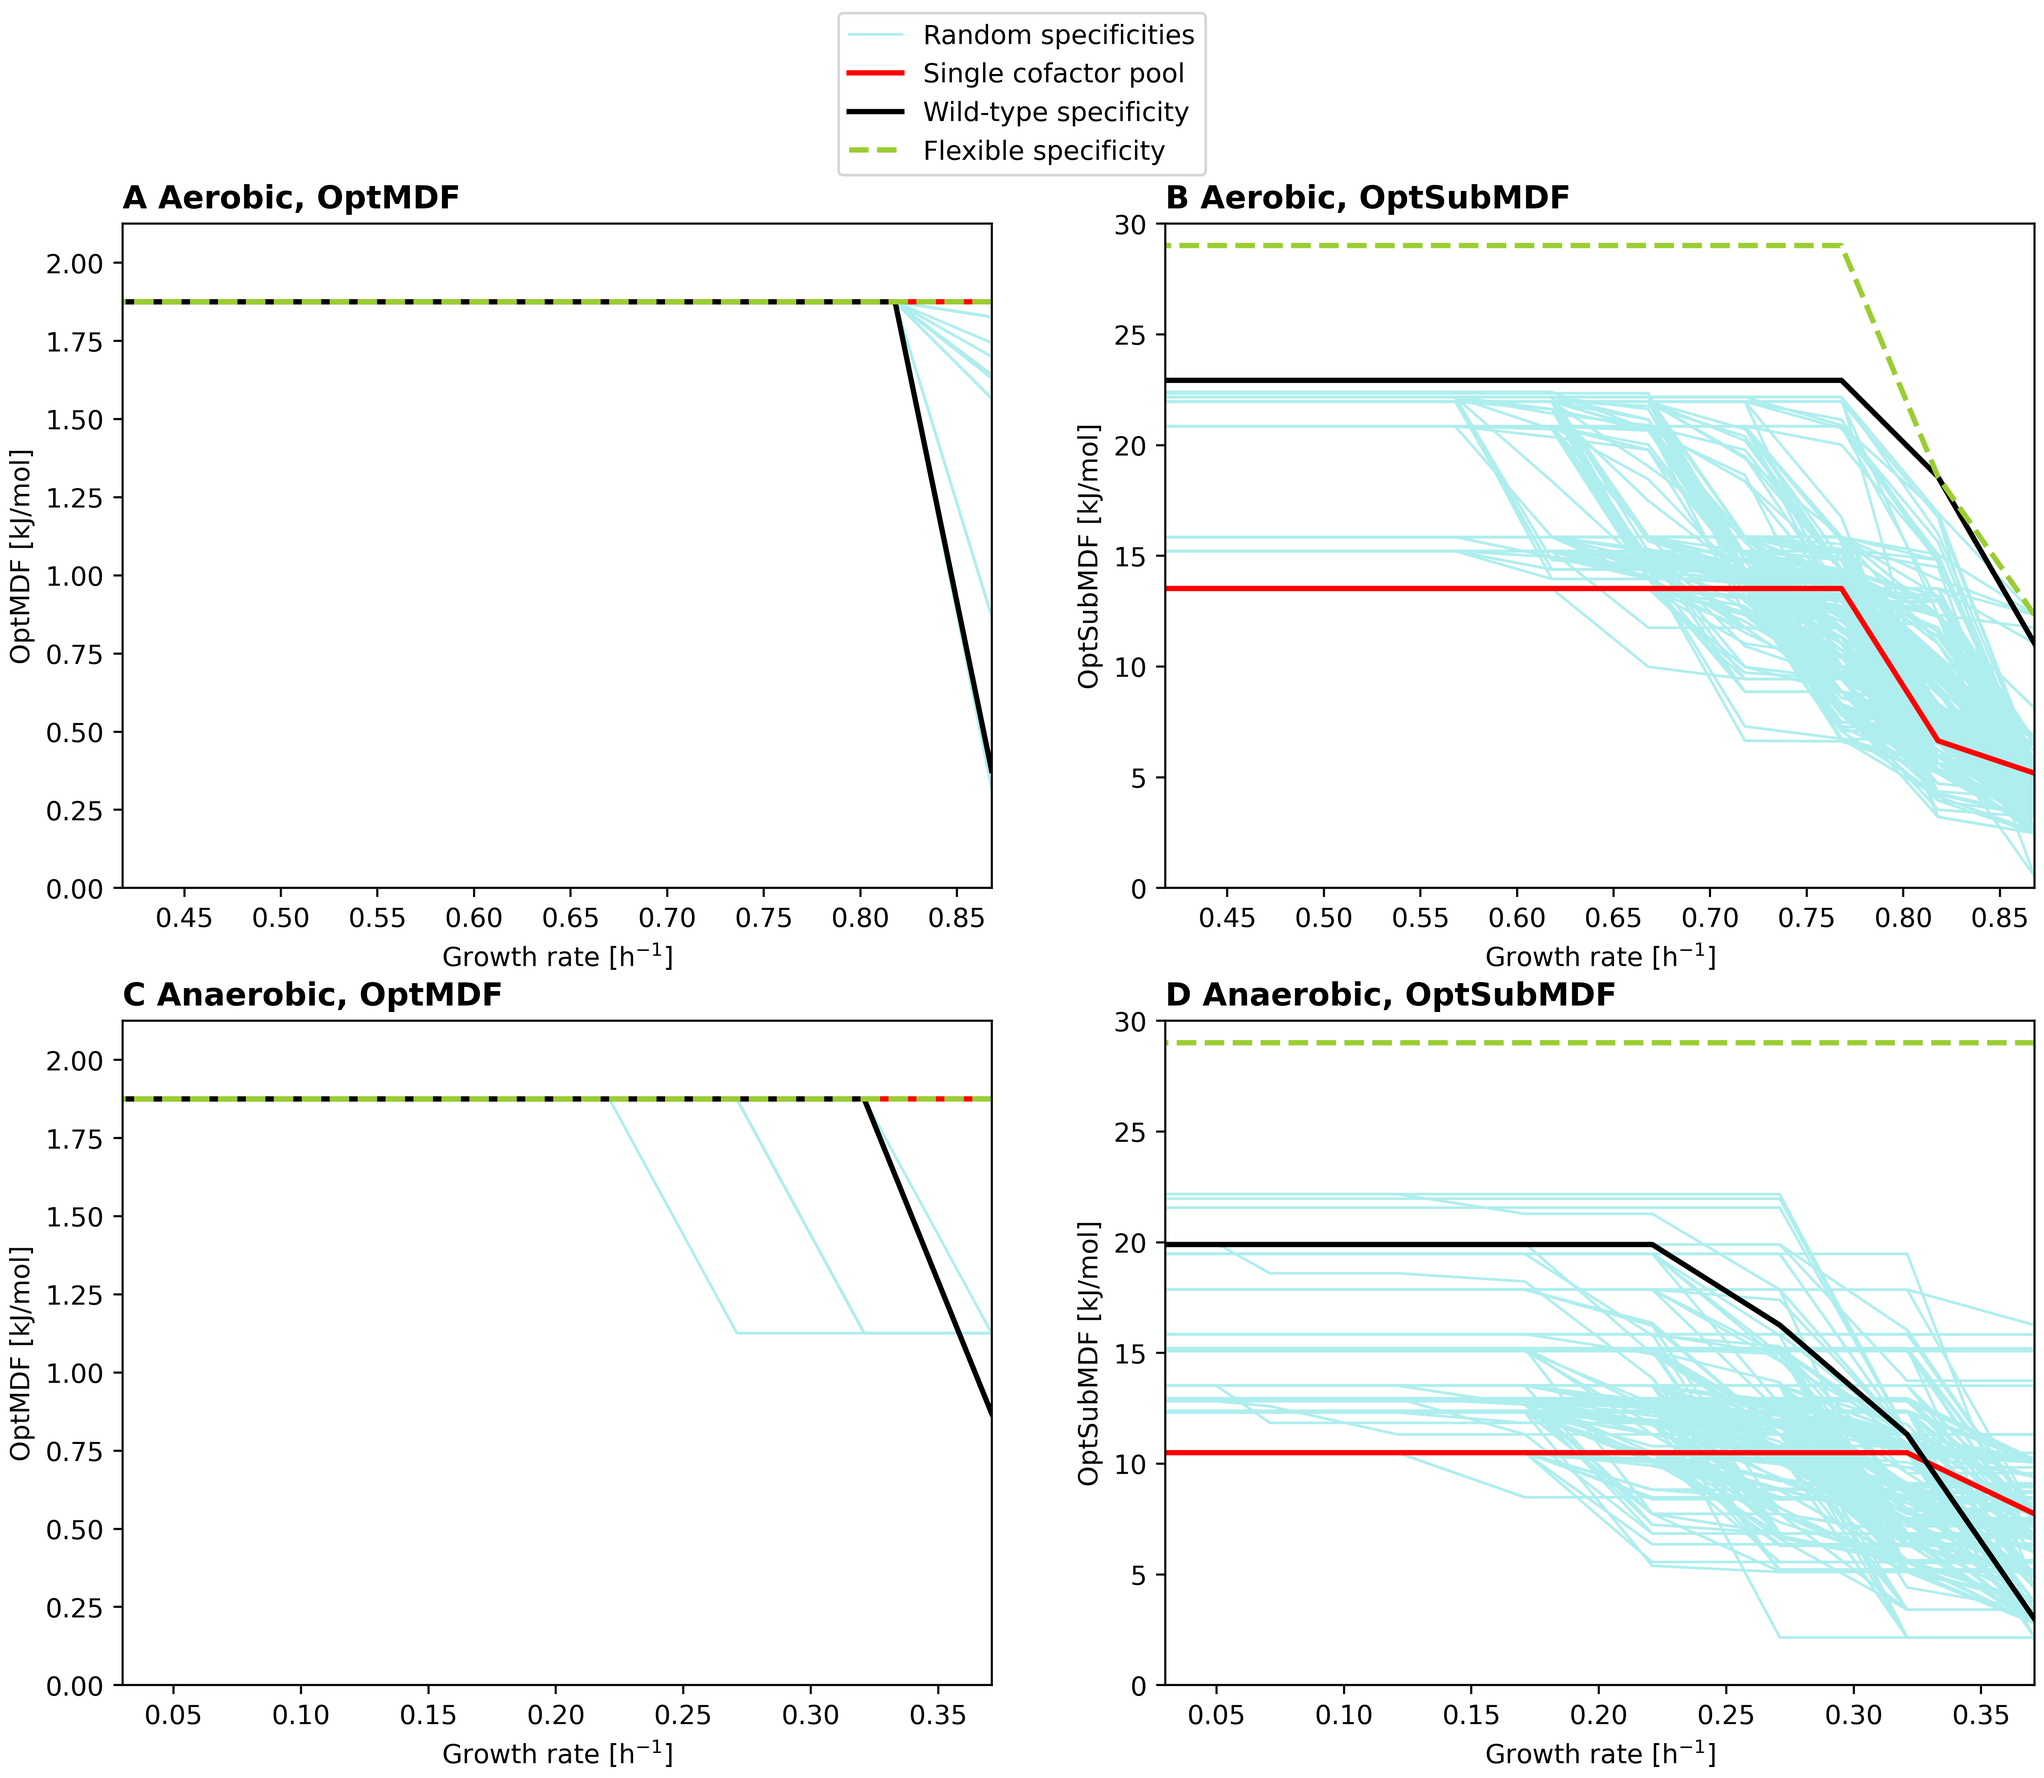
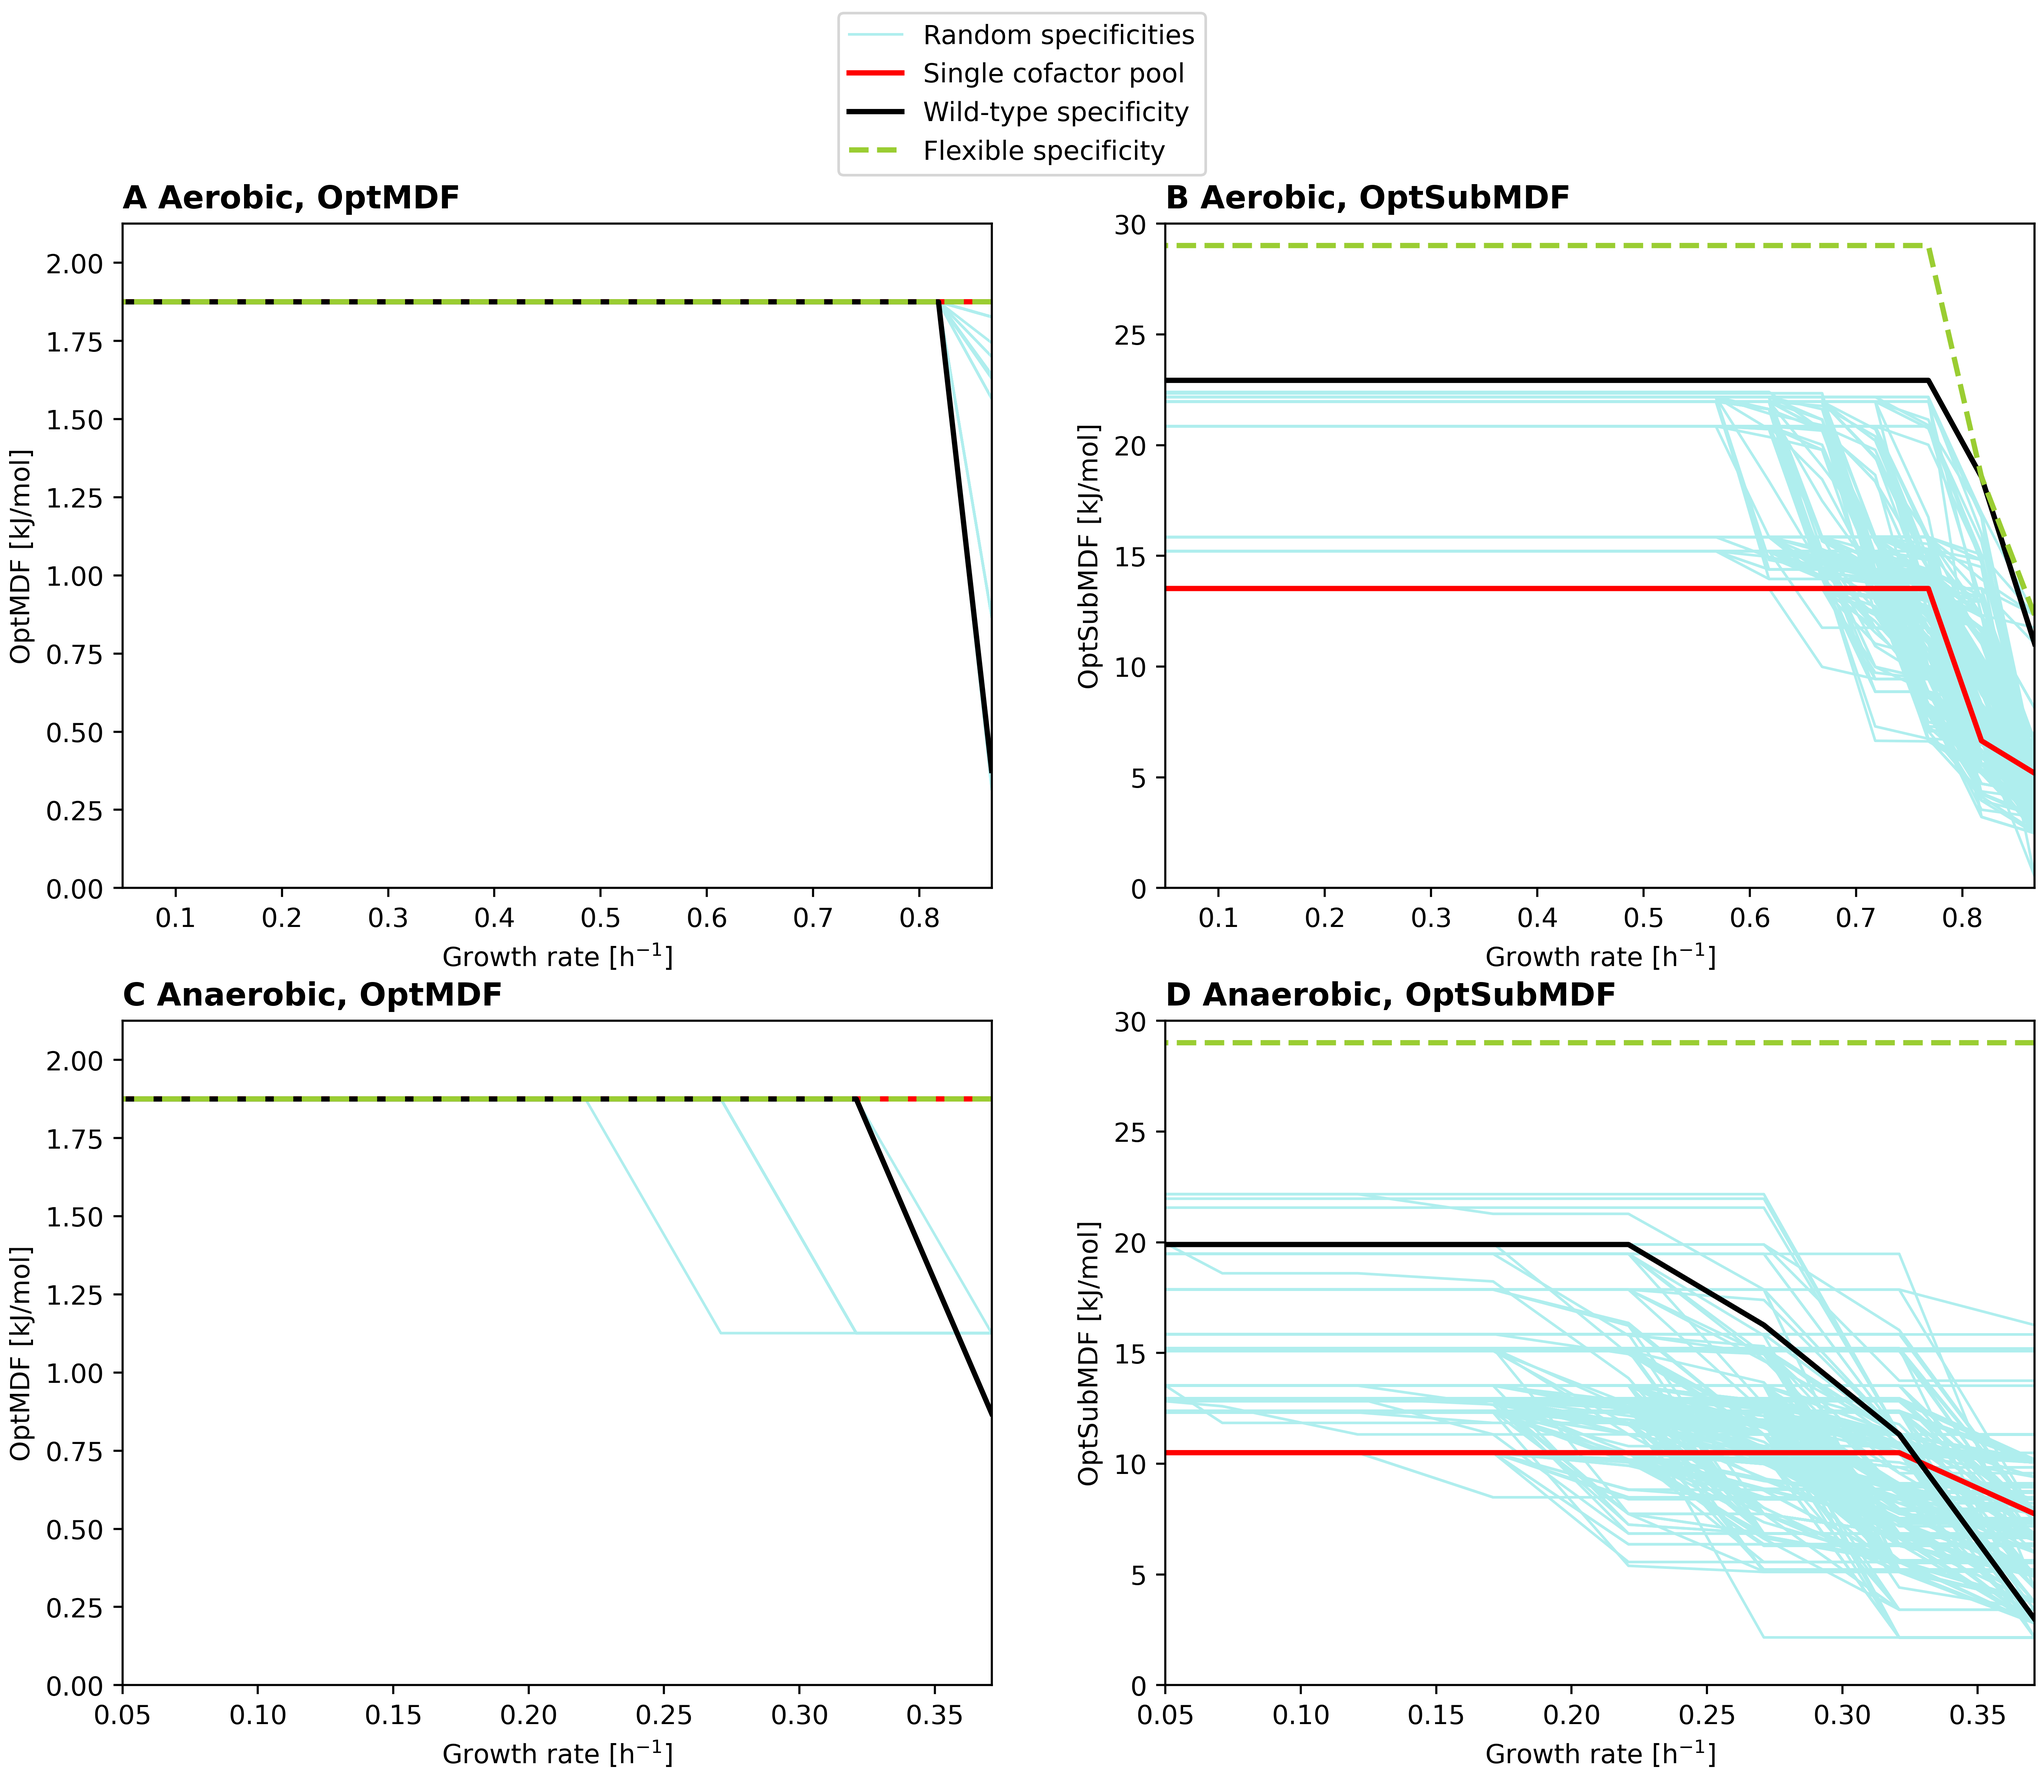
New figures and dG0 sampling fix

diff --git a/cosa_ratio_ratio_test.py b/cosa_ratio_ratio_test.py
@@ -221,10 +221,10 @@ def cosa_create_full_ratio_ratio_test_figure_one_panel():
 
                 figurename = figurename_tuple[1]
                 if is_aerobic:
-                    plotted_growth_rates = ratio_ratio_test_data[figurename]["plotted_growth_rates"][:10]
+                    plotted_growth_rates = ratio_ratio_test_data[figurename]["plotted_growth_rates"]
                     axs_index = figurenames_to_plots[figurename_tuple]
-                    min_ratios = ratio_ratio_test_data[figurename]["min_ratios"][:10]
-                    max_ratios = ratio_ratio_test_data[figurename]["max_ratios"][:10]
+                    min_ratios = ratio_ratio_test_data[figurename]["min_ratios"]
+                    max_ratios = ratio_ratio_test_data[figurename]["max_ratios"]
                 else:
                     plotted_growth_rates = ratio_ratio_test_data[figurename]["plotted_growth_rates"]
                     axs_index = figurenames_to_plots[figurename_tuple]
@@ -292,10 +292,10 @@ def cosa_create_full_ratio_ratio_test_figure_two_panels():
 
                 figurename = figurename_tuple[1]
                 if is_aerobic:
-                    plotted_growth_rates = ratio_ratio_test_data[figurename]["plotted_growth_rates"][:10]
+                    plotted_growth_rates = ratio_ratio_test_data[figurename]["plotted_growth_rates"]
                     axs_index = figurenames_to_plots[figurename_tuple]
-                    min_ratios = ratio_ratio_test_data[figurename]["min_ratios"][:10]
-                    max_ratios = ratio_ratio_test_data[figurename]["max_ratios"][:10]
+                    min_ratios = ratio_ratio_test_data[figurename]["min_ratios"]
+                    max_ratios = ratio_ratio_test_data[figurename]["max_ratios"]
                 else:
                     plotted_growth_rates = ratio_ratio_test_data[figurename]["plotted_growth_rates"]
                     axs_index = figurenames_to_plots[figurename_tuple]
@@ -352,7 +352,7 @@ def cosa_create_full_ratio_ratio_test_figure_four_panels():
         }
         first = True
 
-        fig, axs = plt.subplots(nrows=2, ncols=2, dpi=500, figsize=(11, 6)) #sharex=True, figsize=(50, 25), dpi=120, facecolor="white")
+        fig, axs = plt.subplots(nrows=2, ncols=2, dpi=500, figsize=(19, 10)) #sharex=True, figsize=(50, 25), dpi=120, facecolor="white")
         fig.tight_layout(pad=3.75)
         for figurename_tuple in figurenames_to_plots.keys():
             if figurename_tuple[0] == "Aerobic":
@@ -374,15 +374,15 @@ def cosa_create_full_ratio_ratio_test_figure_four_panels():
 
             figurename = figurename_tuple[3]
             if is_aerobic:
-                plotted_growth_rates = ratio_ratio_test_data[figurename]["plotted_growth_rates"][:10]
+                plotted_growth_rates = ratio_ratio_test_data[figurename]["plotted_growth_rates"][:-1]
                 axs_index = figurenames_to_plots[figurename_tuple]
-                min_ratios = ratio_ratio_test_data[figurename]["min_ratios"][:10]
-                max_ratios = ratio_ratio_test_data[figurename]["max_ratios"][:10]
+                min_ratios = ratio_ratio_test_data[figurename]["min_ratios"][:-1]
+                max_ratios = ratio_ratio_test_data[figurename]["max_ratios"][:-1]
             else:
-                plotted_growth_rates = ratio_ratio_test_data[figurename]["plotted_growth_rates"]
+                plotted_growth_rates = ratio_ratio_test_data[figurename]["plotted_growth_rates"][:-1]
                 axs_index = figurenames_to_plots[figurename_tuple]
-                min_ratios = ratio_ratio_test_data[figurename]["min_ratios"]
-                max_ratios = ratio_ratio_test_data[figurename]["max_ratios"]
+                min_ratios = ratio_ratio_test_data[figurename]["min_ratios"][:-1]
+                max_ratios = ratio_ratio_test_data[figurename]["max_ratios"][:-1]
             axs[axs_index].plot(
                 plotted_growth_rates[::-1], # x
                 min_ratios[::-1], # y
@@ -400,7 +400,7 @@ def cosa_create_full_ratio_ratio_test_figure_four_panels():
             import matplotlib
             axs[axs_index].set_title(title, loc="left", fontweight="bold")
             if figurename_tuple[2] == "A":
-                axs[axs_index].set_ylim(-.000003, 0.00005)
+                axs[axs_index].set_ylim(-.000003, 0.00006)
                 axs[axs_index].yaxis.set_major_formatter(
                     matplotlib.ticker.FuncFormatter(lambda x, p: '{:.0E}'.format(x))
                 )
@@ -424,8 +424,8 @@ def cosa_create_full_ratio_ratio_test_figure_four_panels():
         plt.close()
 
 
-cosa_ratio_ratio_test(anaerobic=False, expanded=False)
-cosa_ratio_ratio_test(anaerobic=True, expanded=False)
+# cosa_ratio_ratio_test(anaerobic=False, expanded=False)
+# cosa_ratio_ratio_test(anaerobic=True, expanded=False)
 # cosa_create_full_ratio_ratio_test_figure_one_panel()
 # cosa_create_full_ratio_ratio_test_figure_two_panels()
 cosa_create_full_ratio_ratio_test_figure_four_panels()

diff --git a/cosa_create_in_vivo_concentrations_figure.py b/cosa_create_in_vivo_concentrations_figure.py
@@ -9,7 +9,7 @@ def create_in_vivo_concentrations_figure():
 
     figurename_tuple = ("aerobic", f"2C_NADH_to_NAD___to___NADPH_to_nadp_{target}_{concentration}.jpg")
 
-    fig, axs = plt.subplots(nrows=1, ncols=2, dpi=500, figsize=(12, 5)) #sharex=True, figsize=(50, 25), dpi=120, facecolor="white")
+    fig, axs = plt.subplots(nrows=1, ncols=2, dpi=500, figsize=(18, 6)) #sharex=True, figsize=(50, 25), dpi=120, facecolor="white")
     fig.tight_layout(pad=3.75)
 
     ########################################################
@@ -67,8 +67,8 @@ def create_in_vivo_concentrations_figure():
             linewidth = 1.0
 
         axs[0].plot(
-            growth_rates[:11], # x
-            list_to_float(table[header])[:11], # y
+            growth_rates[:-1], # x
+            list_to_float(table[header])[:-1], # y
             label=label,
             linestyle=linestyle,
             color=color,
@@ -78,7 +78,7 @@ def create_in_vivo_concentrations_figure():
     axs[0].set_title("A", loc="left", fontweight="bold")
     axs[0].set_xlabel("Growth rate [1/h]")
     axs[0].set_ylabel("OptSubMDF [kJ/mol]")
-    axs[0].set_xlim(min(growth_rates[:11]), max(growth_rates[:11]))
+    axs[0].set_xlim(min(growth_rates[:-1]), max(growth_rates[:-1]))
 
 
     ########################################################
@@ -91,9 +91,9 @@ def create_in_vivo_concentrations_figure():
     max_label = "Maximal ratio"
 
     figurename = figurename_tuple[1]
-    plotted_growth_rates = ratio_ratio_test_data[figurename]["plotted_growth_rates"][:10]
-    min_ratios = ratio_ratio_test_data[figurename]["min_ratios"][:10]
-    max_ratios = ratio_ratio_test_data[figurename]["max_ratios"][:10]
+    plotted_growth_rates = ratio_ratio_test_data[figurename]["plotted_growth_rates"][:-1]
+    min_ratios = ratio_ratio_test_data[figurename]["min_ratios"][:-1]
+    max_ratios = ratio_ratio_test_data[figurename]["max_ratios"][:-1]
     axs[1].plot(
         plotted_growth_rates[::-1], # x
         min_ratios[::-1], # y

diff --git a/cosa_dG0_sampling.py b/cosa_dG0_sampling.py
@@ -48,22 +48,19 @@ def cosa_dG0_sampling(anaerobic: bool, expanded: bool, num_samplings: int, step_
         random_dGf_change_dict = get_random_dGf_change_dict()
         random_standardconc_dG0_values[i] = copy.deepcopy(standardconc_dG0_values)
         for reaction in cobra_model.reactions:
-            if reaction.id not in random_standardconc_dG0_values.keys():
+            if reaction.id not in random_standardconc_dG0_values[i].keys():
                 continue
             for key, value in reaction.metabolites.items():
                 stoichiometry = -value
-                random_dGf_change = random_dGf_change_dict[key.id] * stoichiometry
-                random_standardconc_dG0_values[i][reaction.id]["dG0"] += random_dGf_change
-    for i in range(num_samplings):
-        print(random_standardconc_dG0_values[i]["THD2pp"]["dG0"])
-    input("X")
+                random_dGf_change = copy.deepcopy(random_dGf_change_dict[key.id]) * stoichiometry
+                random_standardconc_dG0_values[i][reaction.id]["dG0"] = copy.deepcopy(random_dGf_change) + copy.deepcopy(random_standardconc_dG0_values[i][reaction.id]["dG0"])
 
     random_paperconc_dG0_values = {}
     for i in range(num_samplings):
         random_dGf_change_dict = get_random_dGf_change_dict()
         random_paperconc_dG0_values[i] = copy.deepcopy(paperconc_dG0_values)
         for reaction in cobra_model.reactions:
-            if reaction.id not in random_paperconc_dG0_values.keys():
+            if reaction.id not in random_paperconc_dG0_values[i].keys():
                 continue
             for key, value in reaction.metabolites.items():
                 stoichiometry = -value

diff --git a/cosa_random_sampling.py b/cosa_random_sampling.py
@@ -239,9 +239,9 @@ def cosa_random_sampling(anaerobic: bool, expanded: bool, num_randoms_random: in
 
 
 
-cosa_random_sampling(anaerobic=False, expanded=False, num_randoms_random=500, num_randomfixed_random=500)
-cosa_random_sampling(anaerobic=True, expanded=False, num_randoms_random=500, num_randomfixed_random=500)
-cosa_random_sampling(anaerobic=False, expanded=True, num_randoms_random=1, num_randomfixed_random=1)
-cosa_random_sampling(anaerobic=True, expanded=True, num_randoms_random=1, num_randomfixed_random=1)
+# cosa_random_sampling(anaerobic=False, expanded=False, num_randoms_random=500, num_randomfixed_random=500)
+# cosa_random_sampling(anaerobic=True, expanded=False, num_randoms_random=500, num_randomfixed_random=500)
+# cosa_random_sampling(anaerobic=False, expanded=True, num_randoms_random=1, num_randomfixed_random=1)
+# cosa_random_sampling(anaerobic=True, expanded=True, num_randoms_random=1, num_randomfixed_random=1)
 create_total_cosa_figure()
 # create_total_cosa_figure_optsubmdf_only()

diff --git a/cosa_random_sampling_figures.py b/cosa_random_sampling_figures.py
@@ -849,13 +849,12 @@ def create_total_cosa_figure() -> None:
 
                 values = [x for x in table[header]]
                 temp_growth_rates = copy.deepcopy(growth_rates)
-                if not "anaerobic" in table_path:
-                    current_index = 0
-                    for _ in temp_growth_rates:
-                        if temp_growth_rates[current_index] < 0.4:
-                            temp_growth_rates[current_index] = None
-                            values[current_index] = None
-                        current_index += 1
+                current_index = 0
+                for _ in temp_growth_rates:
+                    if temp_growth_rates[current_index] < 0.04:
+                        temp_growth_rates[current_index] = None
+                        values[current_index] = None
+                    current_index += 1
                 temp_growth_rates = [x for x in temp_growth_rates if x is not None]
                 values = [x for x in values if x is not None]
 

diff --git a/cosa_create_extended_model_figure.py b/cosa_create_extended_model_figure.py
@@ -10,7 +10,7 @@ def _get_data_list(file_path: str):
     data_dict = {}
     for line in lines[1:]:
         data_dict[float(line[0].replace(",", "."))] = float(line[flexible_location].replace(",", "."))
-    return list(data_dict.values()), list(data_dict.keys())
+    return list(data_dict.values())[:-1], list(data_dict.keys())[:-1]
 
 
 for concentration_ranges in ("STANDARDCONC", "VIVOCONC"):
